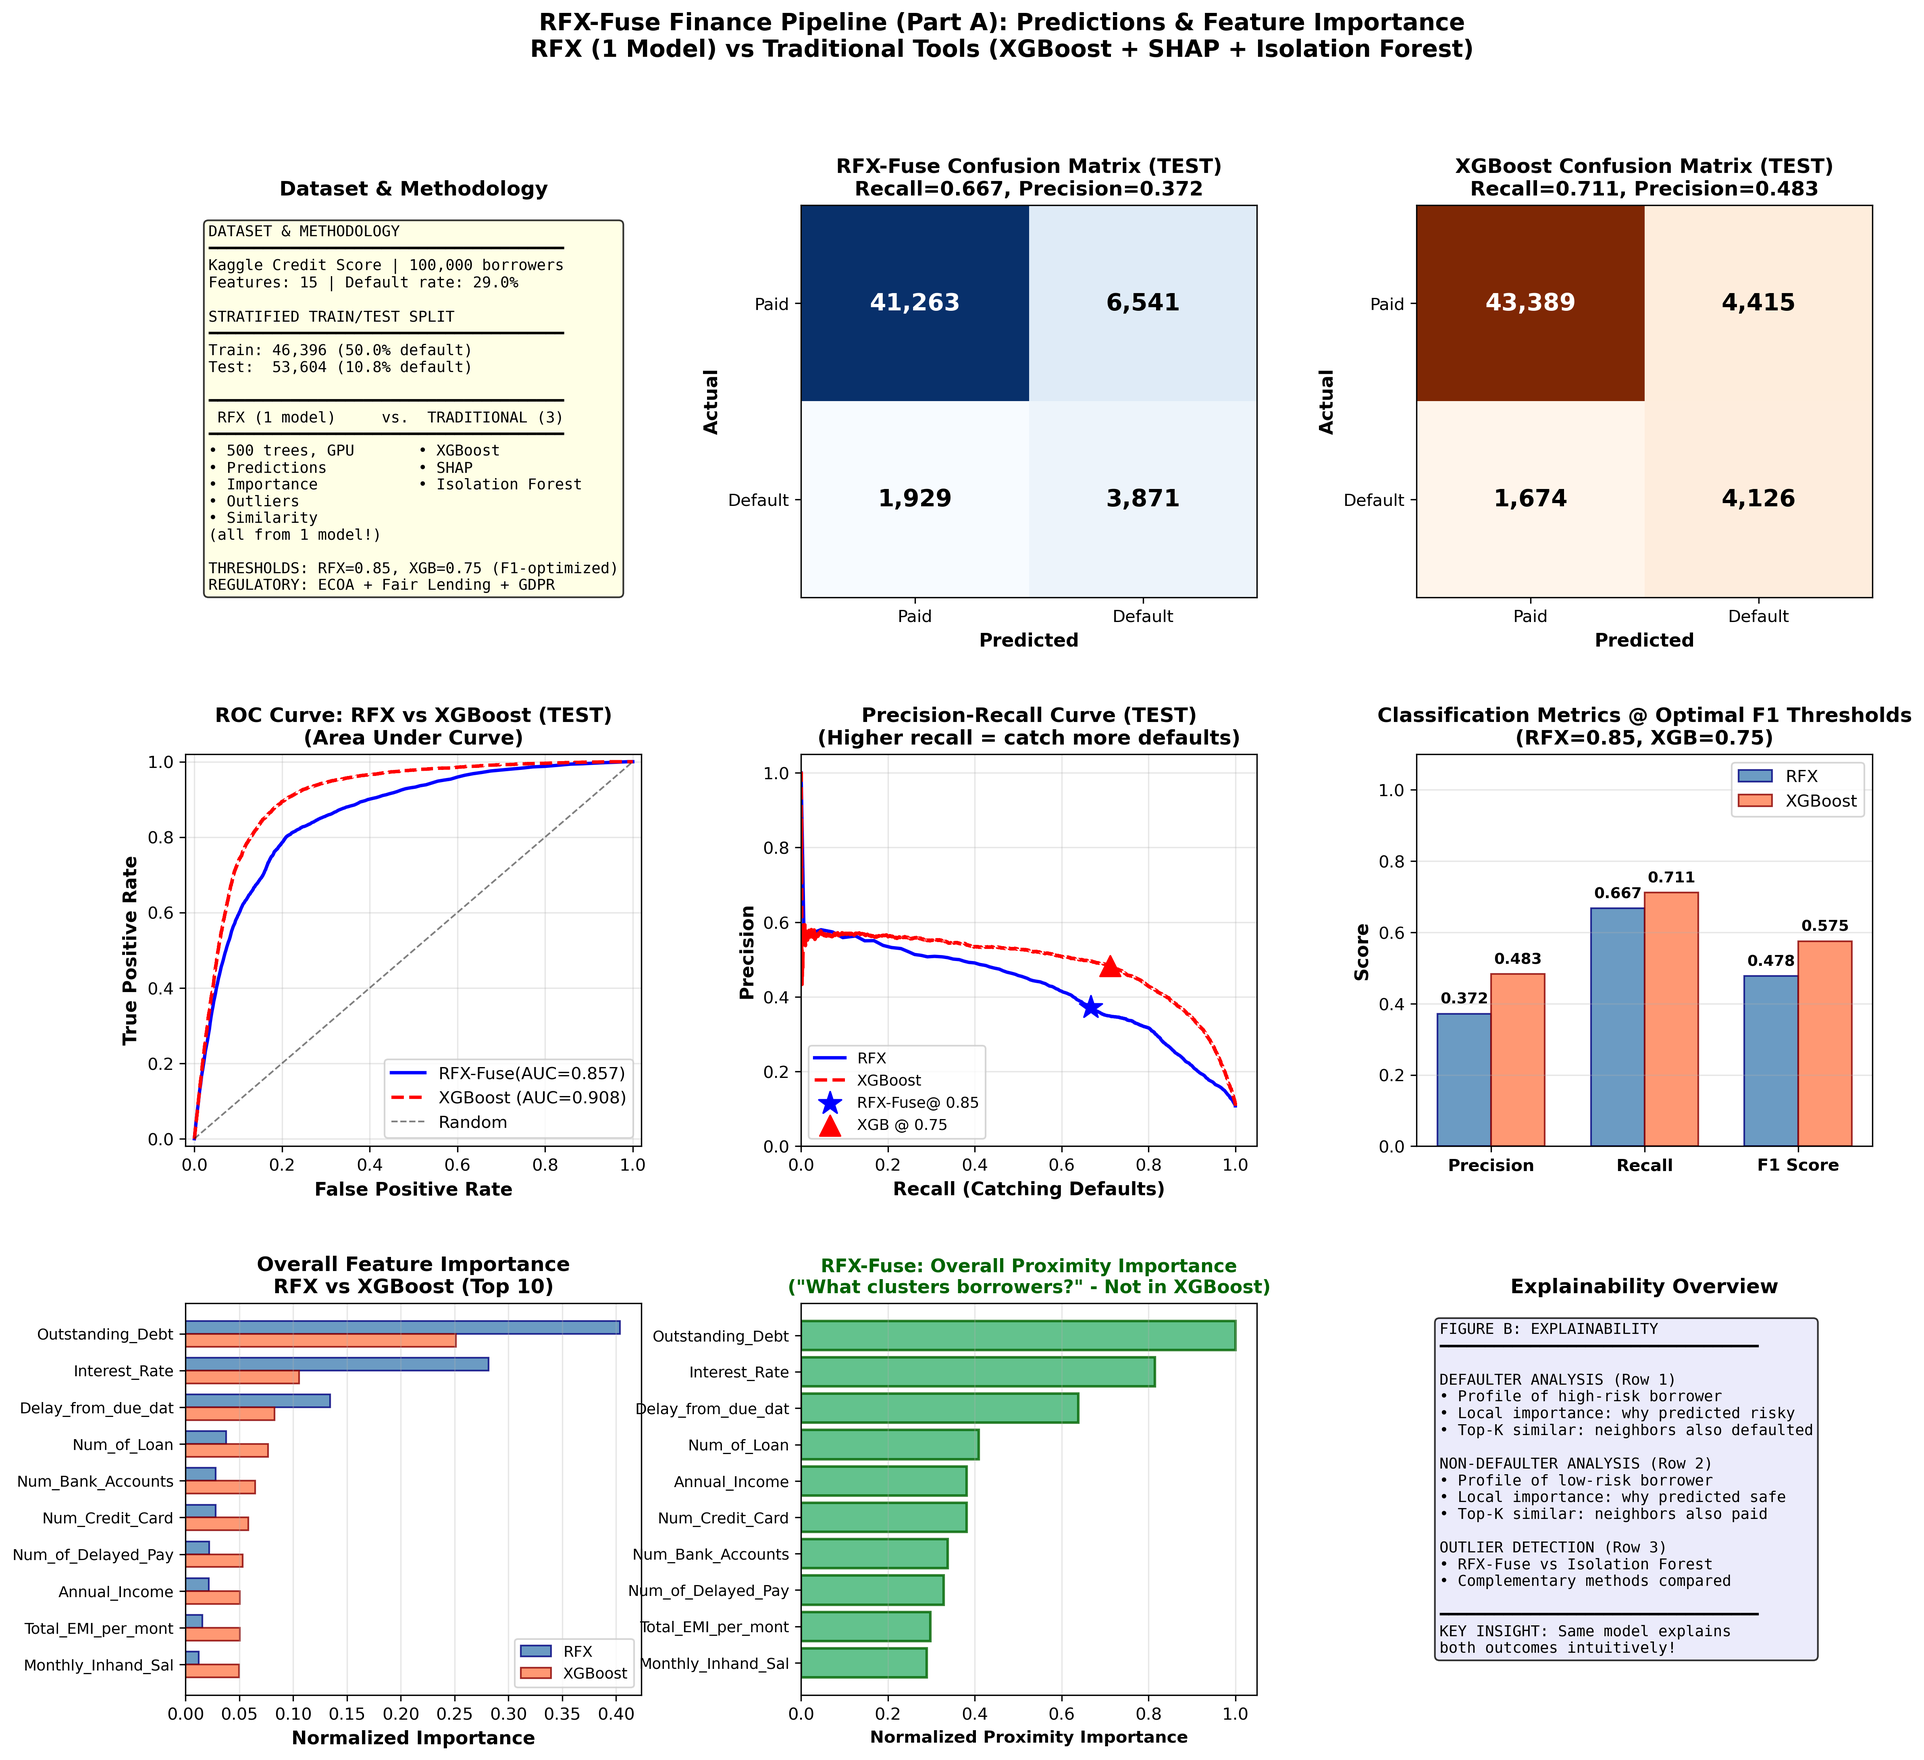
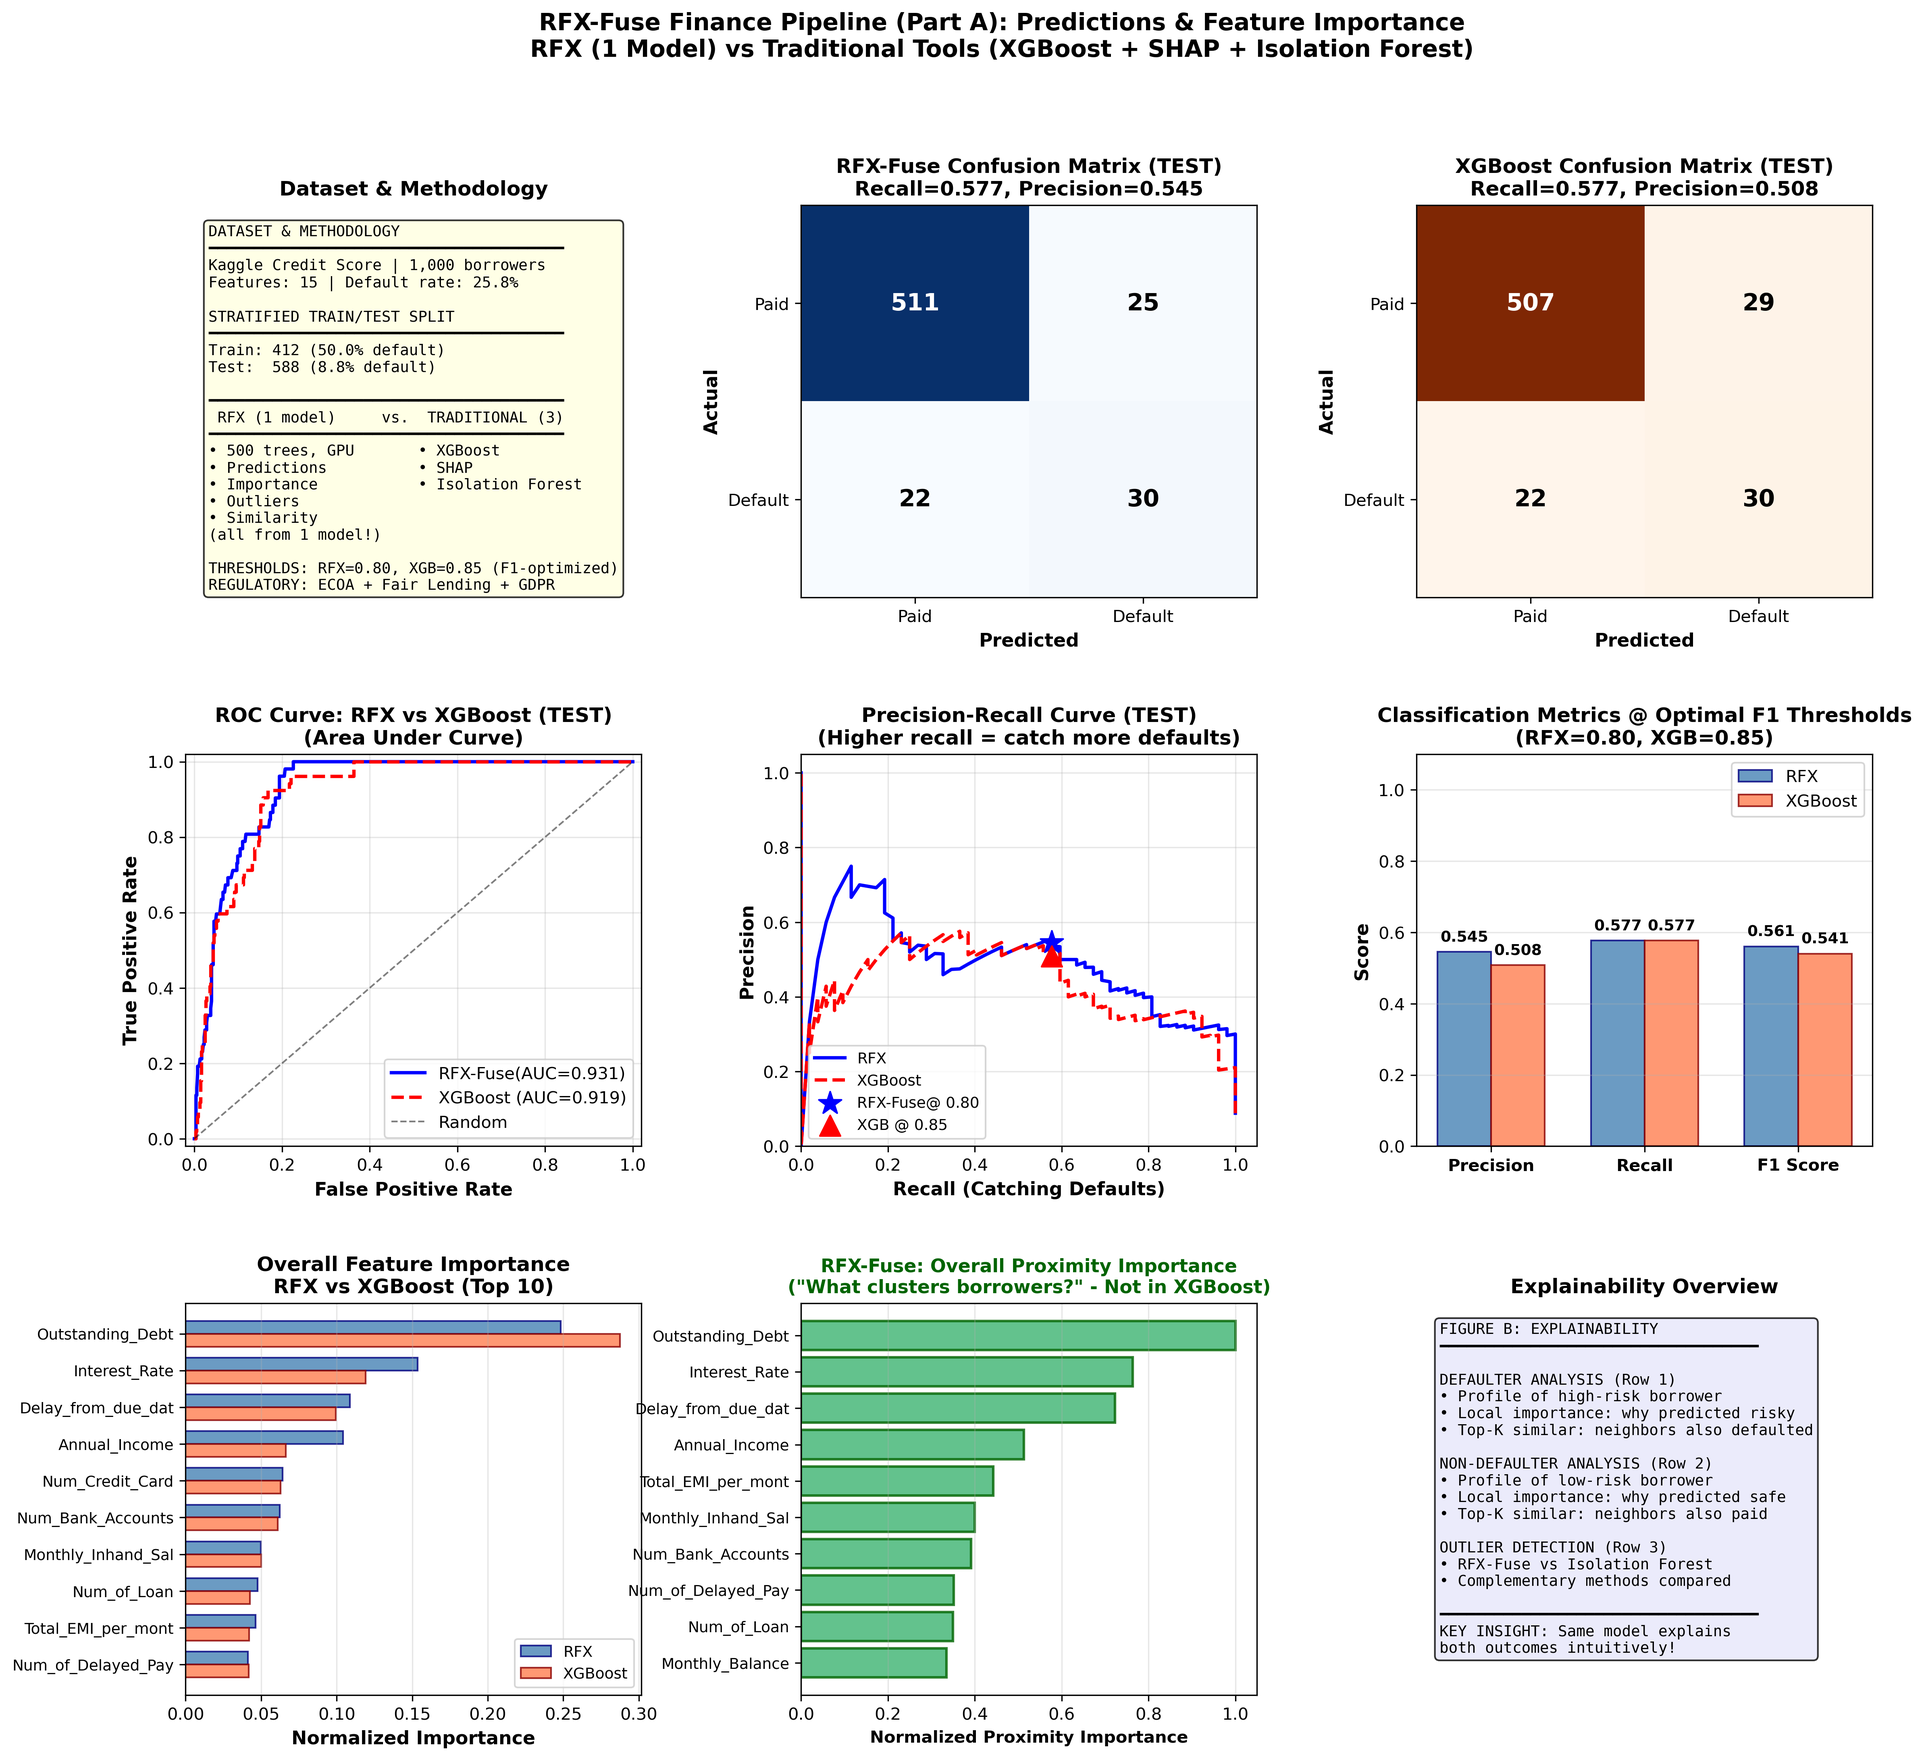
Fix multi-class classification label mapping and expose    impute API
- Remap non-contiguous class labels to 0-based in
  setup_classification_task()
    to prevent out-of-bounds crashes (e.g. labels {3,7,11} with
  nclass=3)
  - Reverse-map predictions back to original labels in
  predict_classification()
    for both OOB and new-data paths
  - Fix CPU and GPU imputation (rf_impute.cpp, rf_impute.cu) to remap
    categorical labels before fit_classification
  - Expose imputation functions on RFXFuse module (rfx.impute_rough,
  etc.)
    instead of requiring separate from rfx_impute import

diff --git a/src/rf_random_forest.cpp b/src/rf_random_forest.cpp
@@ -748,7 +748,17 @@ void RandomForest::fit_regression(const real_t* X, const real_t* y, const real_t
         if (config_.compute_proximity && config_.use_qlora) {
             config_.use_qlora = false;  // Disable qlora, but keep proximity enabled (use dense matrix)
         }
-        
+
+        // Initialize y_train_regression_int_ for parallel CPU mode
+        // This must be done BEFORE the parallel loop since grow_tree_single only initializes it lazily
+        const real_t y_scale = 1000.0f;
+        if (y_train_regression_int_.empty()) {
+            y_train_regression_int_.resize(y_train_regression_.size());
+            for (size_t i = 0; i < y_train_regression_.size(); ++i) {
+                y_train_regression_int_[i] = static_cast<integer_t>(y_train_regression_[i] * y_scale);
+            }
+        }
+
         // Allocate leaf_assignments_ if requested (CPU mode)
         if (config_.compute_leaf_assignments && leaf_assignments_.empty()) {
             // Cast to size_t to avoid integer overflow with large ntree * nsample
@@ -854,7 +864,23 @@ void RandomForest::fit_regression(const real_t* X, const real_t* y, const real_t
                                nodeclass, cat_.data(), nodestatus, catgoleft,
                                config_.nsample, config_.mdim, nnode_[itree], config_.maxcat,
                                local_jtr.data(), local_nodextr.data());
-                    
+
+                    // Accumulate OOB predictions for regression (parallel-safe)
+                    if (config_.task_type == TaskType::REGRESSION) {
+                        for (integer_t n = 0; n < config_.nsample; ++n) {
+                            if (local_nin[n] == 0) {  // OOB sample
+                                integer_t terminal_node = local_nodextr[n];
+                                if (terminal_node >= 0 && terminal_node < nnode_[itree]) {
+                                    real_t regression_prediction = nodepred[terminal_node];
+                                    #pragma omp atomic
+                                    oob_predictions_[n] += regression_prediction;
+                                    #pragma omp atomic
+                                    nout_[n] += 1;
+                                }
+                            }
+                        }
+                    }
+
                     // Progress callback
                     integer_t completed = ++trees_completed;
                     if (progress_callback_ && completed % std::max(1, config_.ntree / 20) == 0) {
@@ -3252,13 +3278,28 @@ void RandomForest::setup_classification_task(const integer_t* y) {
     // For classification, determine number of classes
     std::set<integer_t> unique_classes(y, y + config_.nsample);
     config_.nclass = static_cast<integer_t>(unique_classes.size());
-    
-    // Store class labels directly (0-based)
+
+    // Build label mapping: original → 0-based, and reverse
+    // This handles non-contiguous labels like {1, 3, 7} → {0, 1, 2}
+    zero_based_to_original_label_map_.assign(unique_classes.begin(), unique_classes.end());
+    original_to_0based_label_map_.clear();
+    for (integer_t idx = 0; idx < config_.nclass; ++idx) {
+        original_to_0based_label_map_[zero_based_to_original_label_map_[idx]] = idx;
+    }
+
+    // Remap labels to 0-based
     y_train_classification_1based_.resize(config_.nsample);
     for (integer_t i = 0; i < config_.nsample; ++i) {
-        y_train_classification_1based_[i] = y[i];  // Keep 0-based
+        y_train_classification_1based_[i] = original_to_0based_label_map_[y[i]];
     }
-    
+
+    // Also remap y_train_classification_ (assigned before this call in fit_classification)
+    for (integer_t i = 0; i < config_.nsample; ++i) {
+        if (i < static_cast<integer_t>(y_train_classification_.size())) {
+            y_train_classification_[i] = original_to_0based_label_map_[y_train_classification_[i]];
+        }
+    }
+
     // Ensure mtry is reasonable for classification
     if (config_.mtry == 0) {
         config_.mtry = std::max(1, static_cast<integer_t>(std::sqrt(static_cast<real_t>(config_.mdim))));
@@ -3333,10 +3374,17 @@ void RandomForest::predict_classification(const real_t* X, integer_t nsamples, i
     bool is_training_data = (nsamples == config_.nsample);
     
     if (is_training_data) {
-        // Use stored OOB predictions (calculated during fit())
+        // Use stored OOB predictions (calculated during fit(), stored as 0-based)
+        // Reverse-map back to original labels
         for (integer_t sample = 0; sample < nsamples; ++sample) {
-            if (sample < oob_class_predictions_.size()) {
-                predictions[sample] = oob_class_predictions_[sample];
+            if (sample < static_cast<integer_t>(oob_class_predictions_.size())) {
+                integer_t pred_0based = oob_class_predictions_[sample];
+                if (!zero_based_to_original_label_map_.empty() &&
+                    pred_0based >= 0 && pred_0based < static_cast<integer_t>(zero_based_to_original_label_map_.size())) {
+                    predictions[sample] = zero_based_to_original_label_map_[pred_0based];
+                } else {
+                    predictions[sample] = pred_0based;
+                }
             } else {
                 predictions[sample] = 0; // Default to class 0
             }
@@ -3435,8 +3483,14 @@ void RandomForest::predict_classification(const real_t* X, integer_t nsamples, i
                     predicted_class = c;
                 }
             }
-            
-            predictions[sample] = predicted_class;
+
+            // Reverse-map 0-based prediction back to original label
+            if (!zero_based_to_original_label_map_.empty() &&
+                predicted_class >= 0 && predicted_class < static_cast<integer_t>(zero_based_to_original_label_map_.size())) {
+                predictions[sample] = zero_based_to_original_label_map_[predicted_class];
+            } else {
+                predictions[sample] = predicted_class;
+            }
         }
     }
 }
@@ -4677,8 +4731,9 @@ std::vector<std::pair<integer_t, real_t>> RandomForest::get_top_k_similar(
         }
     }
     
-    // Convert counts to similarity scores (fraction of trees)
-    real_t norm = 1.0f / static_cast<real_t>(config_.ntree);
+    // Convert counts to similarity scores (fraction of OOB trees where query was out-of-bag)
+    // FIX: Normalize by number of OOB trees used, not total trees
+    real_t norm = 1.0f / static_cast<real_t>(oob_trees_for_query.size());
     
     // Find top-K using partial sort
     // Create index-score pairs for sorting

diff --git a/src/rf_impute.cpp b/src/rf_impute.cpp
@@ -23,6 +23,7 @@
 #include <random>
 #include <chrono>
 #include <set>
+#include <map>
 #include <unordered_map>
 
 #ifdef _OPENMP
@@ -462,26 +463,33 @@ ImputationResults impute_missing_cpu_dense(
                     if (is_categorical[j]) {
                         // Classification
                         rf_config.task_type = TaskType::CLASSIFICATION;
-                        
+
                         // Get unique classes
                         std::set<integer_t> classes_set;
                         for (real_t v : y_train) {
                             classes_set.insert(static_cast<integer_t>(v));
                         }
-                        rf_config.nclass = classes_set.size();
-                        
-                        // Convert to integer labels
+                        std::vector<integer_t> classes_vec(classes_set.begin(), classes_set.end());
+                        rf_config.nclass = classes_vec.size();
+
+                        // Remap raw labels to 0-based for fit_classification
+                        std::map<integer_t, integer_t> label_to_idx;
+                        for (integer_t idx = 0; idx < static_cast<integer_t>(classes_vec.size()); ++idx) {
+                            label_to_idx[classes_vec[idx]] = idx;
+                        }
+
                         std::vector<integer_t> y_train_int(n_train);
                         for (integer_t i = 0; i < n_train; ++i) {
-                            y_train_int[i] = static_cast<integer_t>(y_train[i]);
+                            y_train_int[i] = label_to_idx[static_cast<integer_t>(y_train[i])];
                         }
-                        
+
                         RandomForest rf(rf_config);
                         rf.fit_classification(X_train.data(), y_train_int.data(), nullptr);
-                        
+
                         std::vector<integer_t> pred_int(n_test);
                         rf.predict_classification(X_test.data(), n_test, pred_int.data());
-                        
+
+                        // predict_classification returns original labels (reverse-mapped internally)
                         for (integer_t i = 0; i < n_test; ++i) {
                             predictions[i] = static_cast<real_t>(pred_int[i]);
                         }

diff --git a/python/randomforest_py.cpp b/python/randomforest_py.cpp
@@ -6945,10 +6945,22 @@ except Exception as e:
     }
     
     // ============================================================================
-    // IMPUTATION FUNCTIONS - DISABLED (using Python-only rfx_impute.py instead)
+    // IMPUTATION FUNCTIONS - imported from rfx_impute.py so they're accessible
+    // via: import RFXFuse as rfx; rfx.rfx_impute_rough(...)
     // ============================================================================
-    // C++ bindings removed. Use Python module rfx_impute.py for imputation:
-    //   from rfx_impute import rfx_impute_rough, rfx_impute_rand, rfx_impute_proximity
+    try {
+        py::module_ impute_mod = py::module_::import("rfx_impute");
+        m.attr("impute") = impute_mod.attr("rfx_impute");
+        m.attr("impute_rough") = impute_mod.attr("rfx_impute_rough");
+        m.attr("impute_rand") = impute_mod.attr("rfx_impute_rand");
+        m.attr("impute_proximity") = impute_mod.attr("rfx_impute_proximity");
+        m.attr("impute_topk_mean") = impute_mod.attr("rfx_impute_topk_mean");
+        m.attr("impute_topk_median") = impute_mod.attr("rfx_impute_topk_median");
+        m.attr("impute_knn_mean") = impute_mod.attr("rfx_impute_knn_mean");
+        m.attr("impute_knn_median") = impute_mod.attr("rfx_impute_knn_median");
+    } catch (...) {
+        // rfx_impute.py not available - imputation functions won't be on module
+    }
     // ============================================================================
         
         // Make functions available on module by directly exposing them

diff --git a/include/rf_config.hpp b/include/rf_config.hpp
@@ -98,8 +98,10 @@ struct RFConfig {
     // CPU multi-threading
     integer_t n_threads_cpu = 0;  // Number of CPU threads (0 = auto-detect, use all available cores)
     
-    // Histogram binning for GPU (set by fit_batch_gpu when histogram data is available)
-    bool use_histogram = false;   // Whether to use histogram-based split finding on GPU
+    // Histogram binning for CPU/GPU split finding
+    // IMPORTANT: Must be true for correct handling of binary/low-cardinality features
+    // When false, CPU uses sorting-based splits which heavily favor continuous features
+    bool use_histogram = true;    // Whether to use histogram-based split finding
     integer_t n_bins = 256;       // Number of bins for histogram (max 256 for uint8_t storage)
 
     // Helper methods

diff --git a/examples/recommender_system/demo_recommender_system.py b/examples/recommender_system/demo_recommender_system.py
@@ -135,7 +135,8 @@ def load_movielens_cached(max_items=0, max_users=0):
     
     if not cache_file.exists():
         print(f"ERROR: Cache file not found: {cache_file}")
-        print("Please run test_arxiv_paper_claim7_user_item_pairs.py first to generate cache.")
+        print("Please download MovieLens 25M from https://grouplens.org/datasets/movielens/25m/")
+        print(f"and place movies.csv and ratings.csv in: {PROJECT_ROOT / 'data' / 'ml-25m'}")
         sys.exit(1)
     
     print(f"Loading cached MovieLens data from {cache_file.name}...")

diff --git a/examples/classification/demo_loan_classification.py b/examples/classification/demo_loan_classification.py
@@ -99,7 +99,7 @@ def load_finance_cached(max_samples=5000):
         cache_file = cache_dir / "claim10_finance_s0.npz"
     if not cache_file.exists():
         print(f"ERROR: No finance cache found in {cache_dir}")
-        print("Please run test_arxiv_paper_claim10_finance.py first to generate cache.")
+        print("Please download the Kaggle Credit Score dataset and generate the cache.")
         sys.exit(1)
 
     print(f"Loading cached finance data from {cache_file.name}...")

diff --git a/setup_cpu.py b/setup_cpu.py
@@ -90,7 +90,7 @@ elif os.path.exists('README.md'):
 
 setup(
     name='rfx-fuse-cpu',
-    version='1.0.0',
+    version='1.0.1',
     author='Chris Kuchar',
     author_email='chrisjkuchar@gmail.com',
     description="RFX-Fuse: Breiman and Cutler's Unified ML Engine (CPU-only, no CUDA required)",

diff --git a/setup.py b/setup.py
@@ -84,7 +84,7 @@ elif os.path.exists('README.md'):
 
 setup(
     name='rfx-fuse',
-    version='1.0.0',
+    version='1.0.1',
     author='Chris Kuchar',
     author_email='chrisjkuchar@gmail.com',
     description="RFX-Fuse: Breiman and Cutler's Unified ML Engine with GPU Acceleration",
